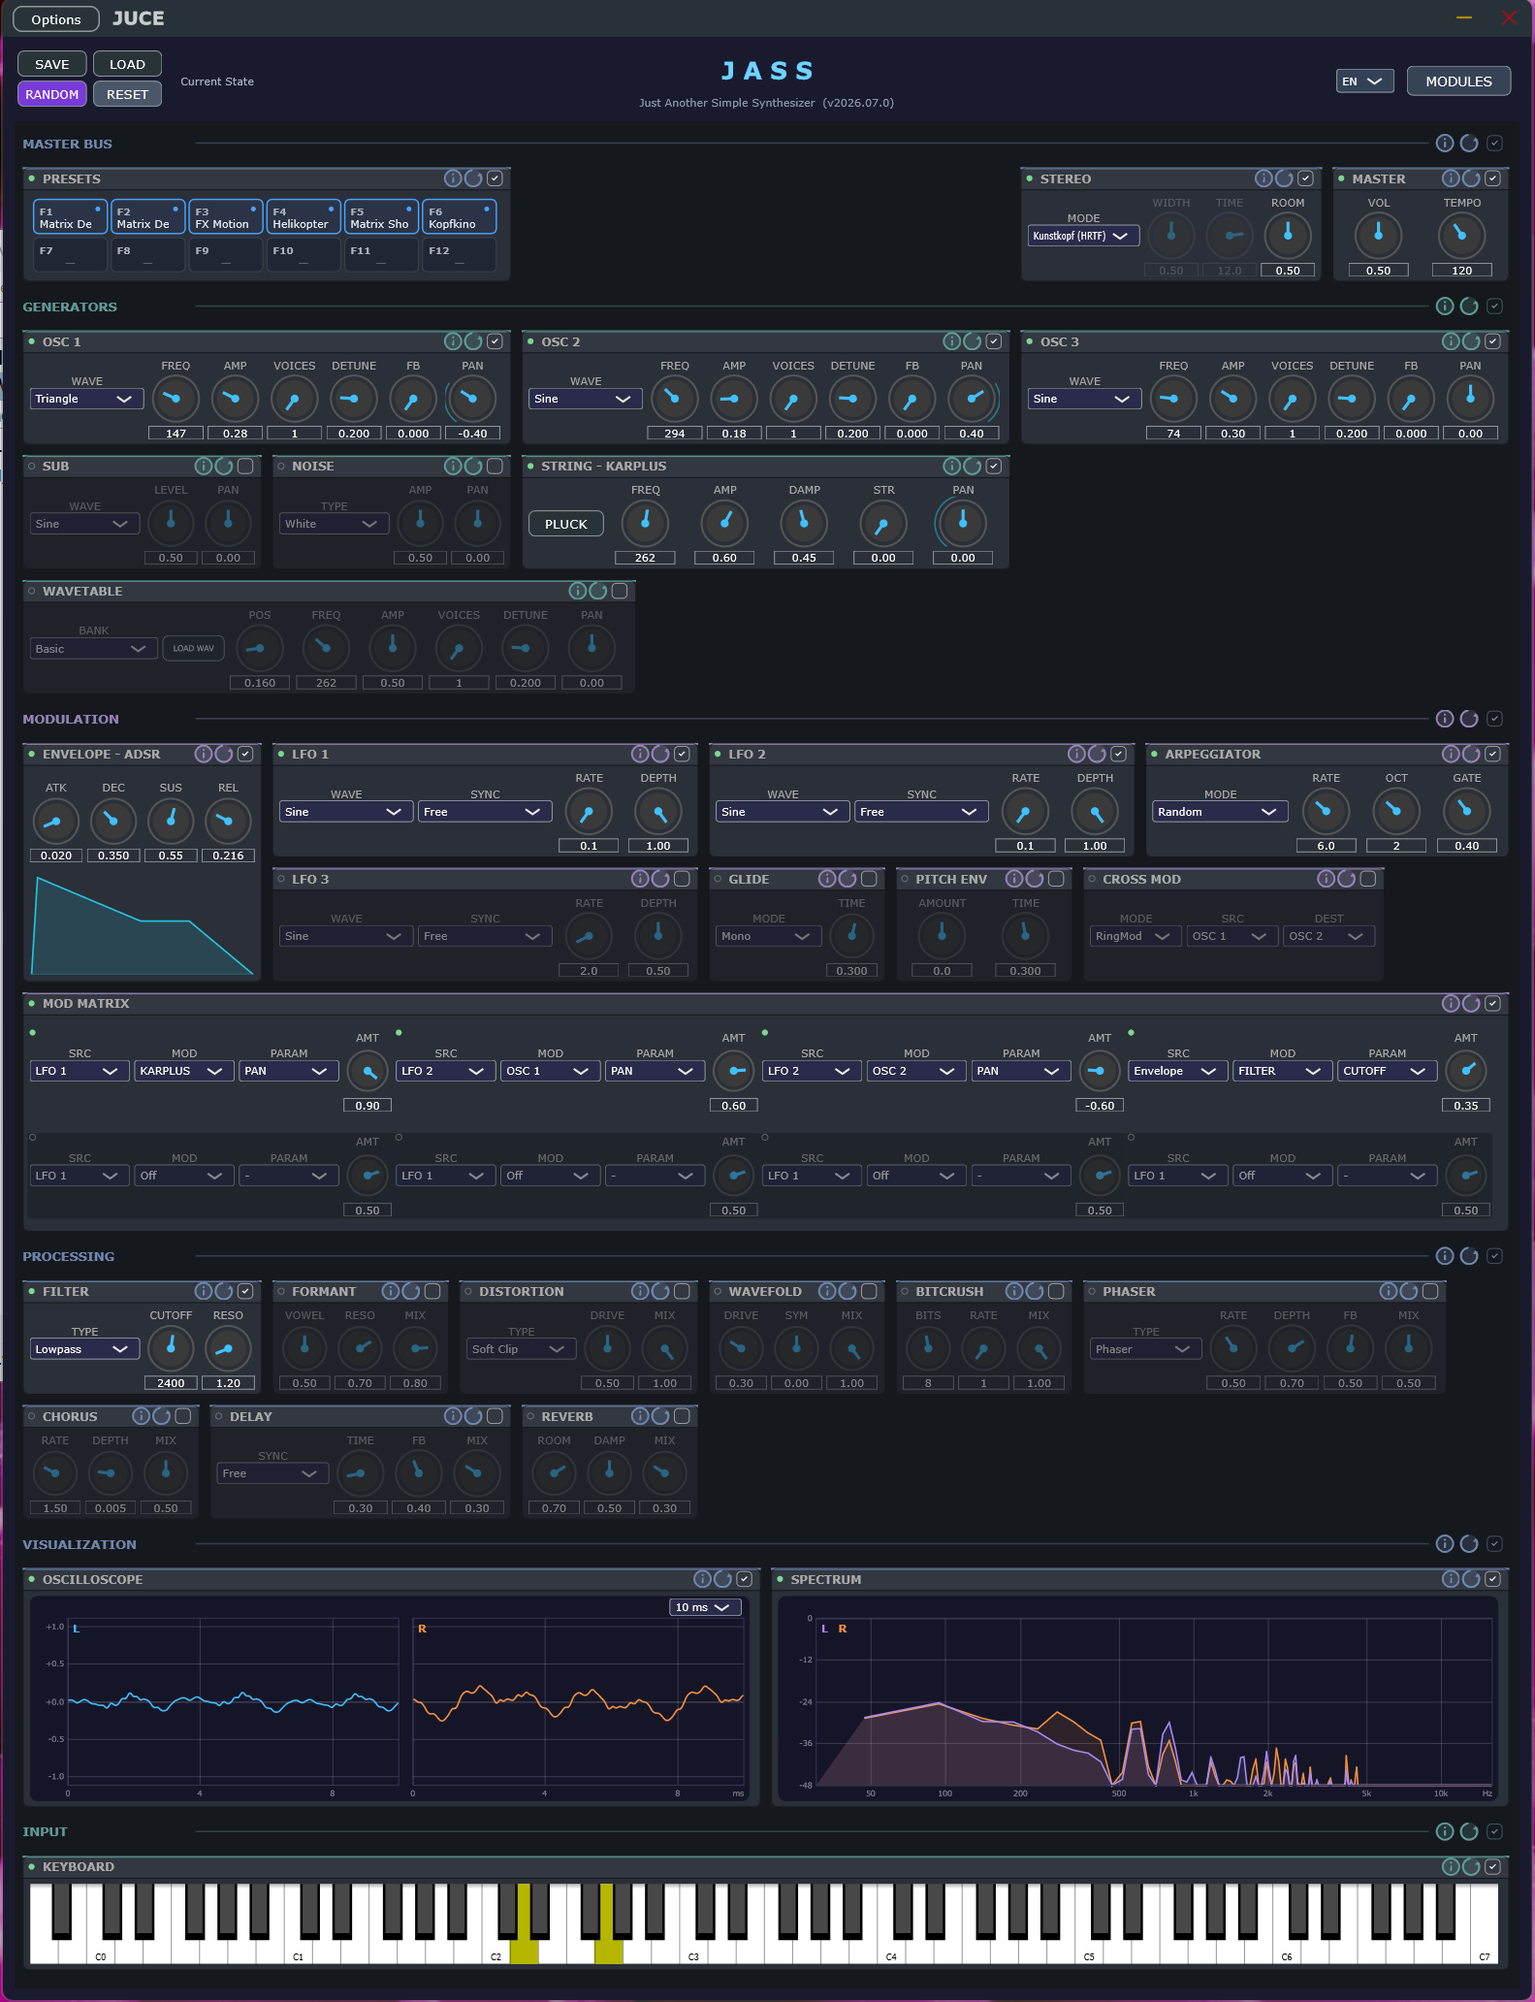
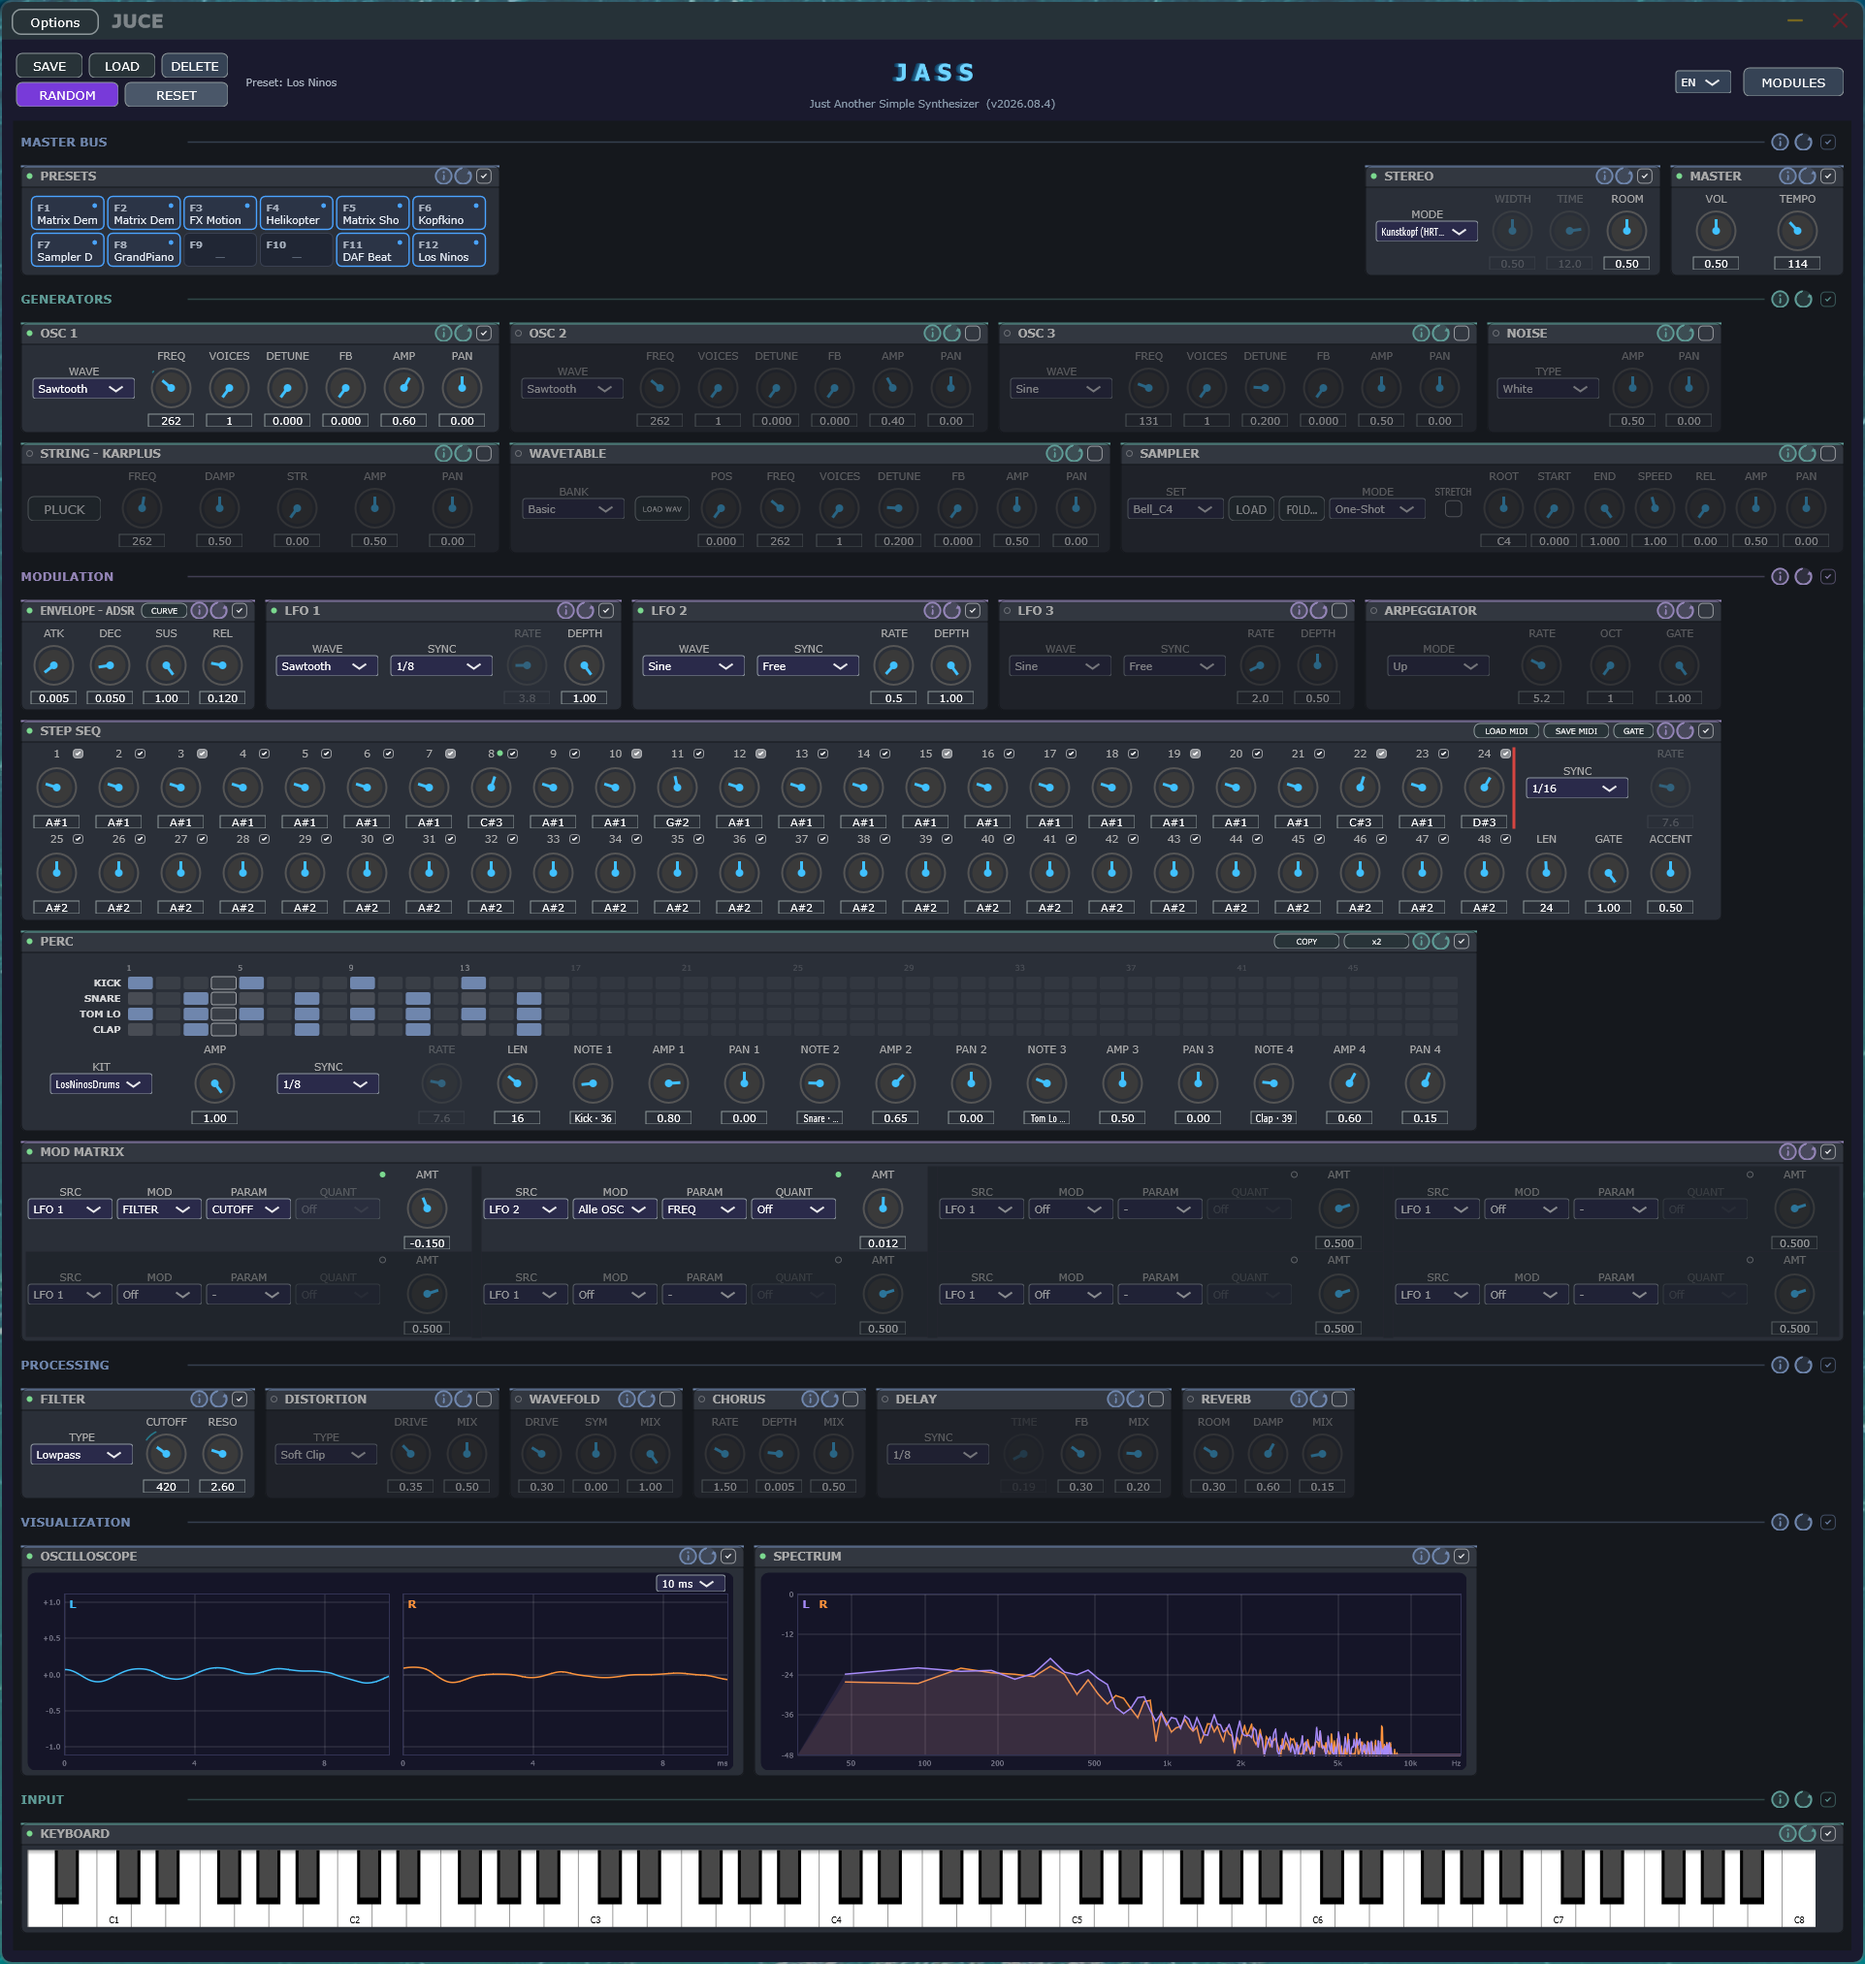
docs(readme): 48-step sequencers, accents/gates, MIDI buttons, PERC COPY/x2 - fresh rack screenshot
The screenshot is the maintainer's new capture of the 16.2 layout
(48-step STEP SEQ with the red LEN line, 48-step PERC, folded ADSR).
The STEP SEQ and PERC paragraphs catch up with 15.2/15.7/15.8/16.2.

Changed region(s): [[0.0, 0.0, 1.0, 1.0], [0.4643, 0.0311, 0.5572, 0.0622]]

diff --git a/README.md b/README.md
@@ -74,25 +74,31 @@ info** so nothing is hidden and every control explains itself.
   parameters. Sources: LFO 1–4 / envelope / velocity. Each routing has a bipolar
   amount, auto-enables its source + target module, and shows a live modulation ring.
 - **Poly glide** (mono/legato/poly), **arpeggiator** (up/down/up-down/random)
-- **STEP SEQ** — a 32-step sequencer (two rows of sixteen) that plays a figure you
-  write, transposed by the key you play. Per-step semitone offset and an on/off
-  switch (off = rest); one global GATE for note length, 1.0 holding each note into
-  the next step. Locked to the tempo like the LFOs and DELAY, or free-running. It
-  replaces the ARPEGGIATOR — both take over the held chord, so only one can run.
-  Point it at a drum map and the offsets pick the *instrument* instead of a pitch.
+- **STEP SEQ** — a 48-step sequencer (two rows of twenty-four; a red line marks where
+  the pattern ends) that plays a figure you write, transposed by the key you play.
+  Per-step semitone offset and a three-state corner switch (off = rest, on,
+  **accented** — the ACCENT knob sets how much harder an accent plays and how far it
+  opens the filter); the **GATE** header latch flips the same knobs to each step's
+  length, from staccato through **TIE** to the 303's **SLIDE**. Locked to the tempo
+  like the LFOs and DELAY, or free-running. It replaces the ARPEGGIATOR — both take
+  over the held chord, so only one can run.
   **The first key starts it and it keeps running** — a new key moves it, the octave
   keys shift it, SPACE stops it; a patch saved while it plays comes back playing.
   **Write the figure by playing it**: Reset arms step entry, a ring shows which step
   is waiting, every key you press is written there, SPACE leaves a rest. Clicking or
   turning a step sounds it too — over the keyboard's current C, so the whole figure
   can be written by ear. While it runs, a lit dot marks the step being played and the
-  on-screen keyboard shows the note.
-- **PERC** — four percussion tracks on a 32-step grid with their own kit, their own
+  on-screen keyboard shows the note. **LOAD MIDI / SAVE MIDI** in the title bar turn
+  a `.mid` transcription into the playing figure (velocities become accents, note
+  lengths become gates/ties/slides, a looped file is folded to its cycle) and write
+  the figure back out for the DAW.
+- **PERC** — four percussion tracks on a 48-step grid with their own kit, their own
   clock and a level per track, played **dry into the master bus**. It runs as soon as
   you switch it on, no key needed, and the drums are the clock: a STEP SEQ figure
-  started from silence enters on the next start of the drum pattern. Deliberately not
-  a second note sequencer — JASS is monotimbral, so drums sent as MIDI would be
-  dragged through the patch's filter and effects.
+  started from silence enters on the next start of the drum pattern. **COPY** stamps
+  a step column onto any number of steps, **x2** doubles the pattern behind itself.
+  Deliberately not a second note sequencer — JASS is monotimbral, so drums sent as
+  MIDI would be dragged through the patch's filter and effects.
 
 **Processing & effects**
 - **Biquad filter** (lowpass/highpass, resonance) + **formant filter**
